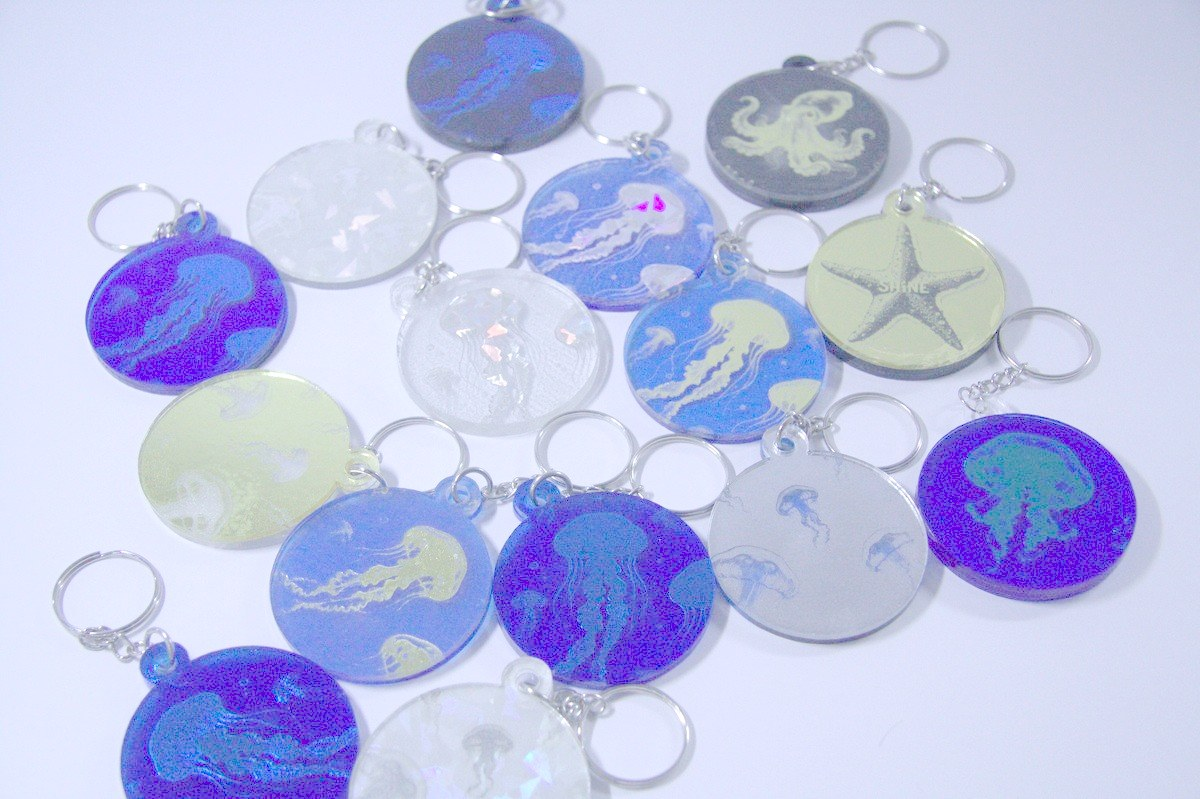
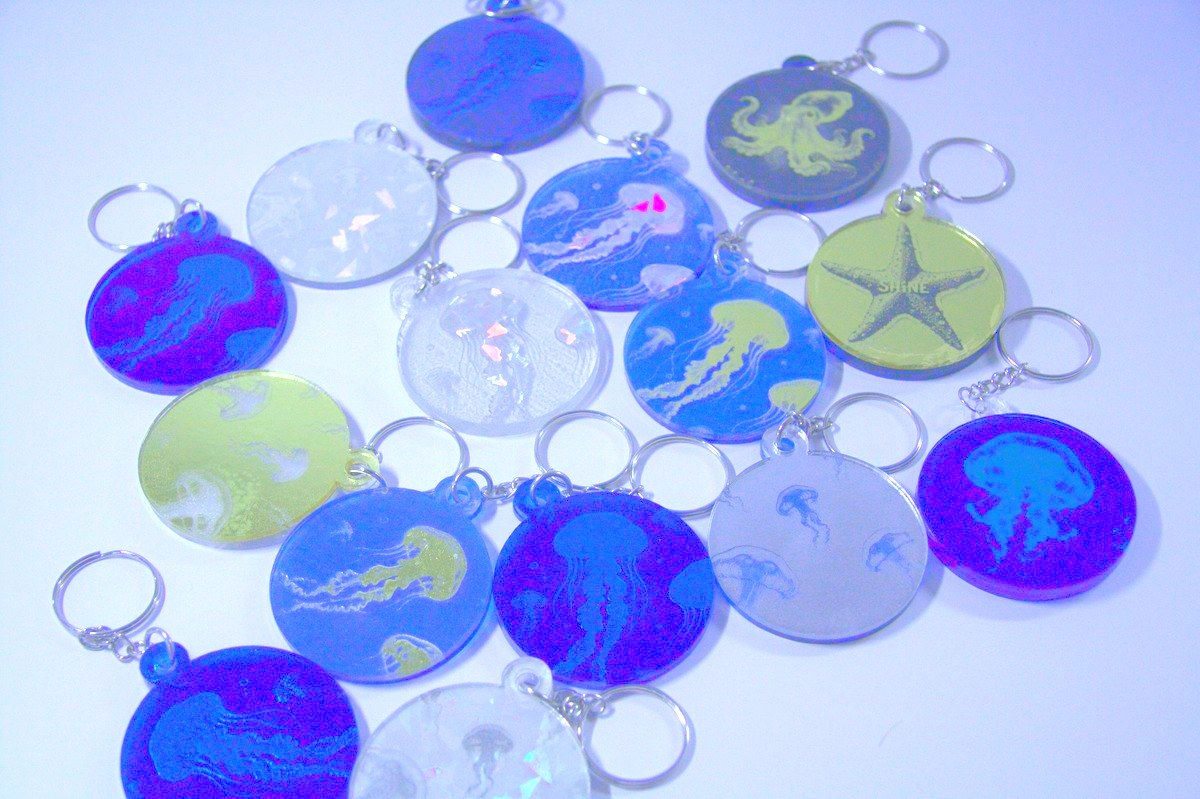
NFC keychains card back to real photo 07.jpg; keychain gallery contrast fix (S-curve, not gamma lift)
- Revert generated nfc-keychains-listing.png references in catalog.ts and
  categories.ts back to the original photo work/keychains/07.jpg. Generated
  file stays on disk, unreferenced.
- Re-process the 11 brightened keychain photos from the 29bccd2 originals:
  S-curve + gain/shift per image (no gamma lift, no clipping), matching the
  tonal balance of the dog-sticker card (work/keychains/21.jpg).
- 04 (iridescent jellyfish) untouched. 21 and 07 untouched.

diff --git a/src/lib/categories.ts b/src/lib/categories.ts
@@ -443,7 +443,7 @@ export const categories: Category[] = [
       "NFC keychains $5.10 each (4cm x 4cm, min 1) · Acrylic keychains $4.20 each (5cm x 5cm, min 1).",
     samples: [
       {
-        src: "/images/nfc-keychains-listing.png",
+        src: "/images/work/keychains/07.jpg",
         caption: "NFC Keychains — 4cm x 4cm · tap to open a link",
         priceLabel: `${formatSGD(product("nfc-keychains").price)} each`,
         orderHref: buyHref("nfc-keychains"),

diff --git a/src/lib/catalog.ts b/src/lib/catalog.ts
@@ -117,7 +117,7 @@ export const products: ProductRow[] = [
     cut_type: "die-cut",
     min_qty: 1,
     available: true,
-    image: "/images/nfc-keychains-listing.png",
+    image: "/images/work/keychains/07.jpg",
     price: 5.1,
     price_unit: "each",
     size: "4cm x 4cm",
